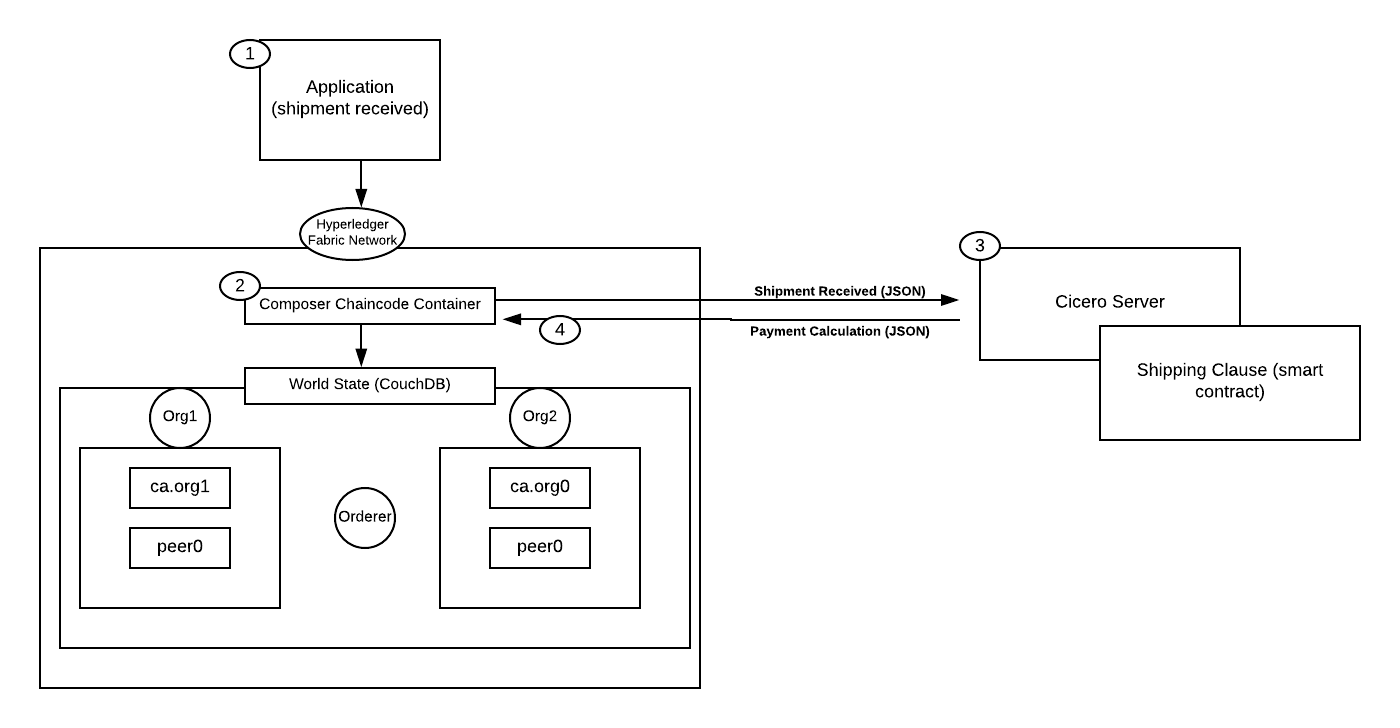
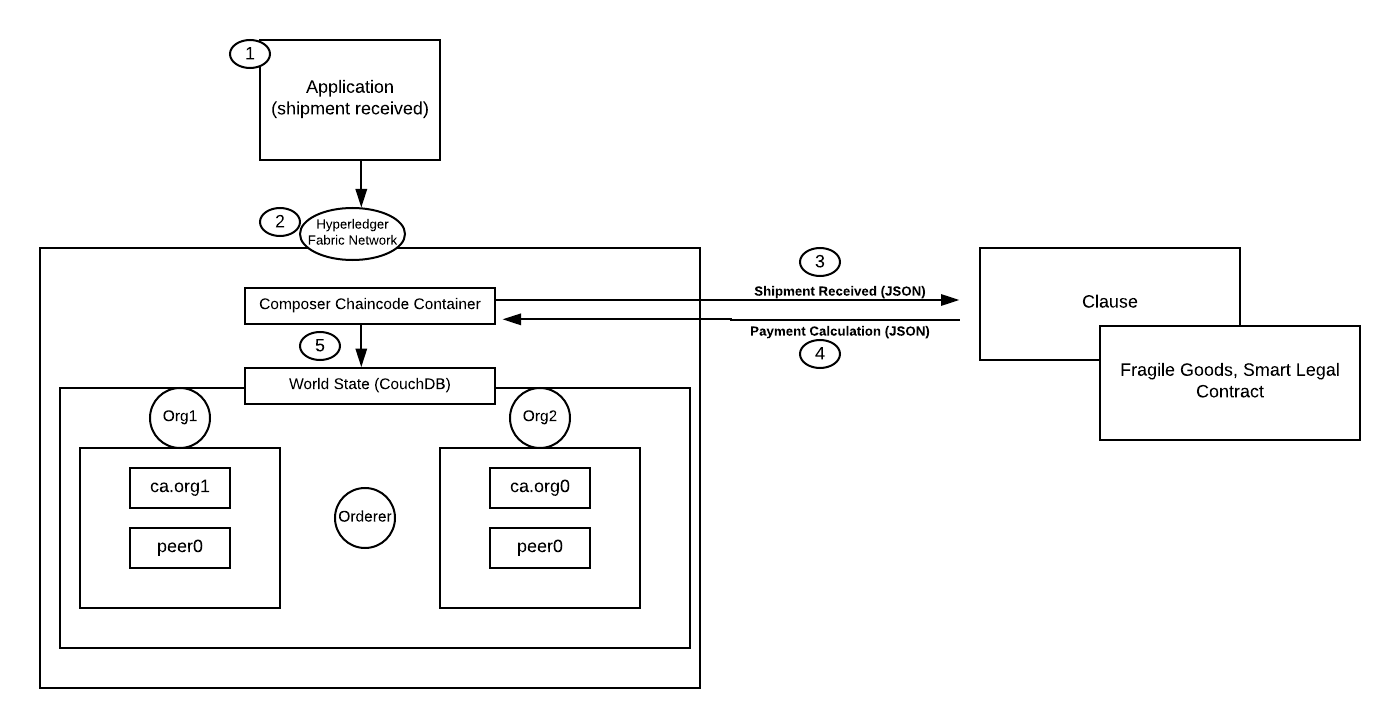
updating readme and diagram

diff --git a/README.md b/README.md
@@ -8,7 +8,7 @@ The [Clause platform](http://clause.io) manages digital legal contracts that adh
 
 This code pattern illustrates how a legal agreement (such as a shipping contract) can be automated with the use of trusted data from the IBM Blockchain Platform. In this scenario, the Hyperledger Composer business network (executing on Hyperledger Fabric v1) invokes the Clause platform. Hyperledger Fabric stores the state of assets on the blockchain, while the [Cicero engine](https://github.com/accordproject/cicero) (from the Accord Project) executes contract logic off-chain on the [Clause platform](http://clause.io). 
 
-The developer will creates a blockchain-based business network on the IBM Blockchain Platform that invoke Clause to execute Smart Legal Contracts. When the reader has completed this code pattern, they will understand how to:
+The developer creates a blockchain-based business network on the IBM Blockchain Platform that invoke Clause to execute Smart Legal Contracts. When the reader has completed this code pattern, they will understand how to:
 * Deploy a network to IBM Blockchain Starter Plan
 * Configure and use the Clause platform to build and execute a contract
 * Run an Angular application that utilizes the Clause smart contract
@@ -21,10 +21,9 @@ The developer will creates a blockchain-based business network on the IBM Blockc
 
 1. Application receives a shipment request
 2. A transaction is submitted to IBM Blockchain Platform
-3. The Hyperledger Composer based business network running on IBM Blockchain Platform updates the state of assets
-2. A call is issued to Clause to trigger execution of a smart legal contract
-3. The smart legal contract is executed and assuming verifications pass; then a payment is subsequently calculated
-4. Assets on the blockchain are updated: blocks are written to the network and the world state is updated
+3. A call is issued to Clause to trigger execution of a smart legal contract
+4. The smart legal contract is executed and assuming verifications pass; then a payment is subsequently calculated
+5. Assets on the blockchain are updated: blocks are written to the network and the world state is updated
 
 ## Included Components
 * [Hyperledger Composer v0.19.4](https://hyperledger.github.io/composer/latest/) Hyperledger Composer is an extensive, open development toolset and framework to make developing blockchain applications easier
